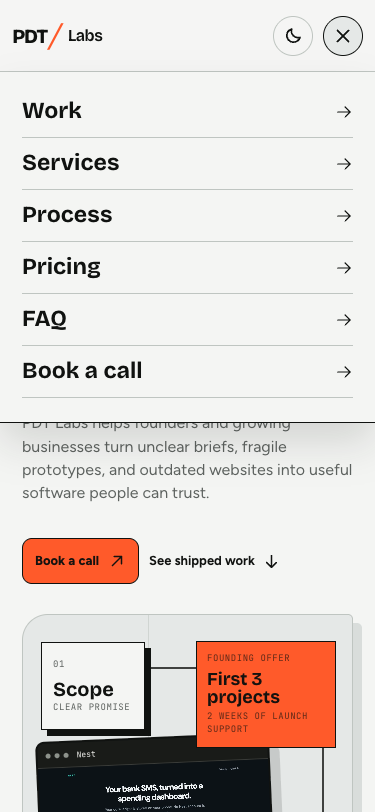
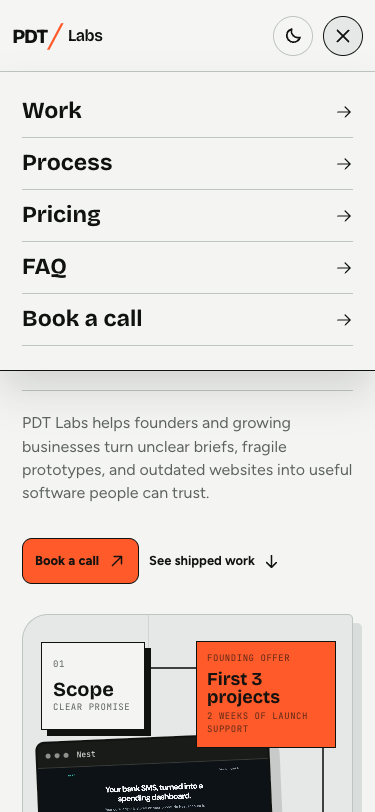
Simplify page flow and refine pricing layout

Changed region(s): [[0.0587, 0.3079, 0.9387, 0.5234], [0.0587, 0.1847, 0.3227, 0.2155], [0.1173, 0.2463, 0.2933, 0.2771]]

diff --git a/src/App.tsx b/src/App.tsx
@@ -38,7 +38,6 @@ function Header({ dark, onTheme }: { dark: boolean; onTheme: () => void }) {
 
       <nav className="desktop-nav" aria-label="Primary navigation">
         <a href="#work">Work</a>
-        <a href="#services">Services</a>
         <a href="#process">Process</a>
         <a href="#pricing">Pricing</a>
         <a href="#faq">FAQ</a>
@@ -76,7 +75,6 @@ function Header({ dark, onTheme }: { dark: boolean; onTheme: () => void }) {
           >
             {[
               ["Work", "#work"],
-              ["Services", "#services"],
               ["Process", "#process"],
               ["Pricing", "#pricing"],
               ["FAQ", "#faq"],
@@ -246,7 +244,6 @@ function App() {
     const saved = localStorage.getItem("pdt-theme");
     return saved ? saved === "dark" : false;
   });
-  const [openService, setOpenService] = useState<number | null>(0);
   const [openFaq, setOpenFaq] = useState<number | null>(0);
   const reduceMotion = useReducedMotion();
 
@@ -301,60 +298,20 @@ function App() {
         </section>
 
         <section className="proof-rail" aria-label="Studio proof points">
-          <div><span>06</span><p>years in production software</p></div>
-          <div><span>04</span><p>products built and tested with real users</p></div>
+          <div><span>06</span><p>years shipping production systems</p></div>
+          <div><span>E2E</span><p>product, architecture, infrastructure, and launch</p></div>
           <div><span>01</span><p>senior builder from scope to release</p></div>
-          <p className="proof-note">Strategy, product, engineering, infrastructure.</p>
+          <p className="proof-note">Bengaluru based, working globally.</p>
         </section>
 
         <section id="work" className="work section-pad section-rule" aria-labelledby="work-title">
           <div className="section-intro">
             <p className="eyebrow">Selected work · Real products, real constraints</p>
-            <h2 id="work-title">Products built and in use.</h2>
-            <p>Four independent products across Android, macOS, consumer web, search, and content automation.</p>
+            <h2 id="work-title">Selected products, built and in use.</h2>
+            <p>A selection of independent products across Android, macOS, consumer web, search, and content automation, backed by six years of building and operating production systems.</p>
           </div>
           <div className="project-list">
             {projects.map((project, index) => <ProjectCase key={project.name} project={project} index={index} />)}
-          </div>
-        </section>
-
-        <section id="services" className="services section-pad section-rule" aria-labelledby="services-title">
-          <div className="services-lead">
-            <p className="eyebrow">Ways to work together</p>
-            <h2 id="services-title">What I can build for you.</h2>
-            <p>Choose a focused page, a complete business site, an existing-product rescue, or a four-week MVP.</p>
-          </div>
-          <div className="service-list">
-            {services.map((service, index) => {
-              const expanded = openService === index;
-              return (
-                <article className={`service-row ${expanded ? "is-open" : ""}`} key={service.name}>
-                  <button type="button" aria-expanded={expanded} onClick={() => setOpenService(expanded ? null : index)}>
-                    <span className="service-number">0{index + 1}</span>
-                    <strong>{service.name}</strong>
-                    <span>{service.duration}</span>
-                    <span>{service.price}</span>
-                    <Plus className="service-plus" size={22} weight="bold" aria-hidden="true" />
-                  </button>
-                  <AnimatePresence initial={false}>
-                    {expanded && (
-                      <motion.div
-                        className="service-detail"
-                        initial={{ height: 0, opacity: 0 }}
-                        animate={{ height: "auto", opacity: 1 }}
-                        exit={{ height: 0, opacity: 0 }}
-                        transition={{ duration: 0.28, ease: easing }}
-                      >
-                        <p>{service.summary}</p>
-                        <ul>
-                          {service.deliverables.map((item) => <li key={item}><Check size={16} weight="bold" /> {item}</li>)}
-                        </ul>
-                      </motion.div>
-                    )}
-                  </AnimatePresence>
-                </article>
-              );
-            })}
           </div>
         </section>
 

diff --git a/src/index.css b/src/index.css
@@ -595,7 +595,6 @@ footer a:hover,
 }
 
 .work,
-.services,
 .pricing,
 .faq {
   padding-top: clamp(90px, 11vw, 170px);
@@ -615,7 +614,6 @@ footer a:hover,
 }
 
 .section-intro h2,
-.services-lead h2,
 .process-heading h2,
 .pricing-top h2,
 .faq-heading h2,
@@ -628,8 +626,7 @@ footer a:hover,
   letter-spacing: -0.065em;
 }
 
-.section-intro > p:last-child,
-.services-lead > p:last-child {
+.section-intro > p:last-child {
   max-width: 430px;
   margin: 0;
   color: var(--ink-soft);
@@ -804,106 +801,6 @@ footer a:hover,
 
 .project-source-link {
   color: var(--ink-soft);
-}
-
-.services {
-  display: grid;
-  grid-template-columns: minmax(320px, 0.72fr) minmax(0, 1.28fr);
-  gap: clamp(50px, 9vw, 150px);
-  background: var(--panel);
-}
-
-.services-lead {
-  position: sticky;
-  top: 115px;
-  align-self: start;
-}
-
-.services-lead h2 {
-  margin: 18px 0 28px;
-  font-size: clamp(48px, 5.5vw, 92px);
-}
-
-.service-list {
-  border-top: 1px solid var(--ink);
-}
-
-.service-row {
-  overflow: hidden;
-  border-bottom: 1px solid var(--ink);
-}
-
-.service-row > button {
-  display: grid;
-  width: 100%;
-  grid-template-columns: 44px minmax(150px, 1fr) minmax(100px, 0.42fr) minmax(100px, 0.42fr) 28px;
-  gap: 14px;
-  align-items: center;
-  padding: 25px 4px;
-  border: 0;
-  background: transparent;
-  color: var(--ink);
-  text-align: left;
-  cursor: pointer;
-}
-
-.service-row > button strong {
-  font-family: var(--font-display);
-  font-size: clamp(25px, 2.4vw, 39px);
-  letter-spacing: -0.04em;
-}
-
-.service-row > button > span:not(.service-number) {
-  color: var(--ink-soft);
-  font-family: var(--font-mono);
-  font-size: 10px;
-  text-transform: uppercase;
-}
-
-.service-number {
-  color: var(--accent);
-  font-family: var(--font-mono);
-  font-size: 11px;
-}
-
-.service-plus {
-  transition: transform 220ms ease;
-}
-
-.service-row.is-open .service-plus {
-  transform: rotate(45deg);
-}
-
-.service-detail {
-  display: grid;
-  grid-template-columns: 1fr 0.9fr;
-  gap: 40px;
-}
-
-.service-detail > p {
-  margin: 0;
-  padding: 8px 0 34px 58px;
-  color: var(--ink-soft);
-  font-size: 17px;
-}
-
-.service-detail ul {
-  display: grid;
-  gap: 9px;
-  margin: 0;
-  padding: 8px 0 34px;
-  list-style: none;
-}
-
-.service-detail li {
-  display: flex;
-  gap: 9px;
-  align-items: center;
-  font-size: 14px;
-}
-
-.service-detail li svg {
-  color: var(--accent);
 }
 
 .process {
@@ -1446,13 +1343,8 @@ footer > div a {
     border-top: 1px solid var(--accent-ink);
   }
 
-  .services,
   .faq {
     grid-template-columns: 1fr;
-  }
-
-  .services-lead {
-    position: static;
   }
 
   .process {
@@ -1469,16 +1361,23 @@ footer > div a {
     grid-template-columns: 1fr;
   }
 
-  .pricing-grid {
-    grid-template-columns: 1fr;
-  }
-
   .pricing-card {
-    min-height: 0;
+    min-height: 620px;
+    padding: clamp(18px, 2.4vw, 28px);
   }
 
-  .pricing-summary {
-    min-height: 0;
+  .pricing-card h3 {
+    font-size: clamp(27px, 3.6vw, 38px);
+  }
+
+  .price-values {
+    flex-direction: column;
+    gap: 2px;
+    align-items: flex-start;
+  }
+
+  .price-values strong {
+    font-size: clamp(42px, 5.2vw, 54px);
   }
 
   .rescue-offer {
@@ -1630,27 +1529,6 @@ footer > div a {
     box-shadow: 9px 9px 0 var(--panel-strong);
   }
 
-  .service-row > button {
-    grid-template-columns: 34px minmax(130px, 1fr) 24px;
-  }
-
-  .service-row > button > span:not(.service-number) {
-    display: none;
-  }
-
-  .service-detail {
-    grid-template-columns: 1fr;
-    gap: 0;
-  }
-
-  .service-detail > p {
-    padding: 5px 0 20px 46px;
-  }
-
-  .service-detail ul {
-    padding: 0 0 28px 46px;
-  }
-
   .process-steps li {
     grid-template-columns: 40px 1fr;
   }
@@ -1665,6 +1543,21 @@ footer > div a {
 
   .pricing-card {
     min-height: 0;
+    padding: 24px;
+  }
+
+  .pricing-card h3 {
+    font-size: 30px;
+  }
+
+  .price-values {
+    flex-direction: row;
+    gap: 12px;
+    align-items: baseline;
+  }
+
+  .price-values strong {
+    font-size: 54px;
   }
 
   .pricing-summary {

diff --git a/.impeccable/surfaces/src-app-tsx.md b/.impeccable/surfaces/src-app-tsx.md
@@ -29,15 +29,14 @@ PDT Labs is a senior product studio that turns rough ideas and fragile prototype
 
 ## Page structure
 
-1. Compact top navigation with Work, Services, Process, Pricing, FAQ, and Book a call.
+1. Compact top navigation with Work, Process, Pricing, FAQ, and Book a call.
 2. Hero with oversized headline, founder-focused copy, two CTAs, and a Scope to Build to Ship routing board containing real product previews.
-3. Proof rail: 6 years in production software, 4 products built and tested with real users, one senior builder from strategy to release.
+3. Proof rail: 6 years shipping production systems, end-to-end capability across product and infrastructure, and one senior builder from strategy to release.
 4. Selected work: four asymmetric project cases using real screenshots, product outcome, capability labels, direct live-site buttons, and GitHub links.
-5. Services: editorial accordion rows for Launch Site, Business Site, Product Rescue, and MVP Build.
-6. Process: one linear 01 to 04 sequence, no equal card grid.
-7. Pricing: three vertical package cards for Idea Validation, Business site, and MVP build, plus a separate Product rescue offer and clearly labeled founding-client rates for the first three projects.
-8. FAQ and a high-contrast project inquiry section.
-9. Compact footer with real links.
+5. Process: one linear 01 to 04 sequence immediately after selected work, no equal card grid.
+6. Pricing: three vertical package cards for Idea Validation, Business site, and MVP build, plus a separate Product rescue offer and clearly labeled founding-client rates for the first three projects. The three primary cards stay side by side on laptop and desktop widths and stack only on narrow mobile screens.
+7. FAQ and a high-contrast project inquiry section.
+8. Compact footer with real links.
 
 ## Design tokens
 

diff --git a/.impeccable/surface-brief-body.md b/.impeccable/surface-brief-body.md
@@ -21,15 +21,14 @@ PDT Labs is a senior product studio that turns rough ideas and fragile prototype
 
 ## Page structure
 
-1. Compact top navigation with Work, Services, Process, Pricing, FAQ, and Start a project.
+1. Compact top navigation with Work, Process, Pricing, FAQ, and Book a call.
 2. Hero with oversized headline, founder-focused copy, two CTAs, and a Scope to Build to Ship routing board containing real product previews.
-3. Proof rail: 6 years in production software, 4 shipped products, one senior builder from strategy to release.
+3. Proof rail: 6 years shipping production systems, end-to-end capability across product and infrastructure, and one senior builder from strategy to release.
 4. Selected work: four asymmetric project cases using real screenshots, product outcome, stack/capability labels, and live/GitHub links.
-5. Services: editorial accordion rows for Launch Site, Business Site, Product Rescue, and MVP Build.
-6. Process: one linear 01 to 04 sequence, no equal card grid.
-7. Pricing: transparent starting rates and durations only in days or weeks, plus a founding-client offer for the first three projects.
-8. FAQ and a high-contrast project inquiry section.
-9. Compact footer with real links.
+5. Process: one linear 01 to 04 sequence immediately after selected work, no equal card grid.
+6. Pricing: three primary package cards remain side by side on laptop and desktop widths, stack only on narrow mobile screens, and use clearly labeled founding-client rates for the first three projects.
+7. FAQ and a high-contrast project inquiry section.
+8. Compact footer with real links.
 
 ## Design tokens
 
